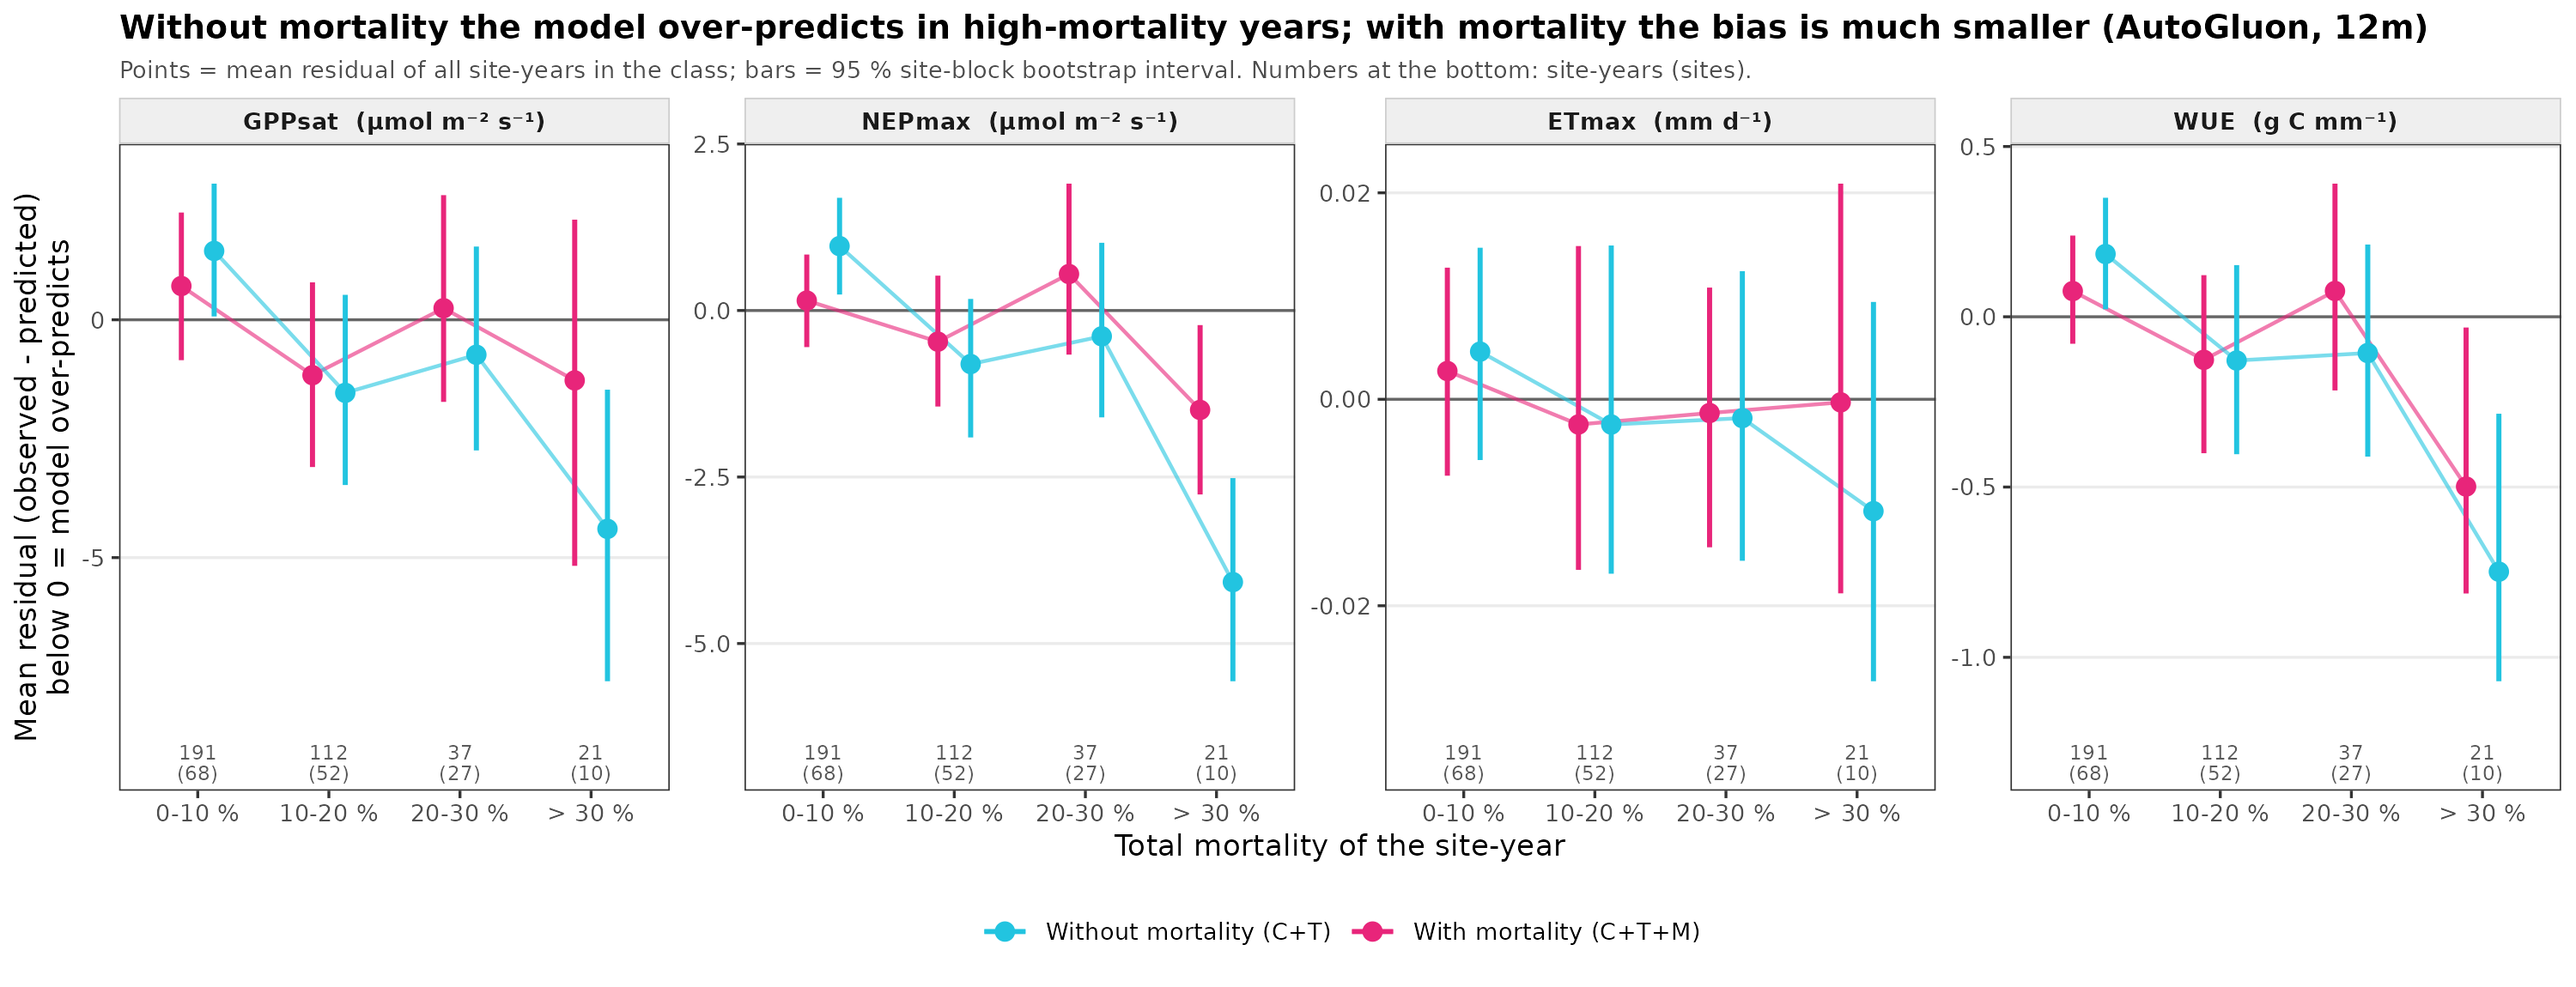
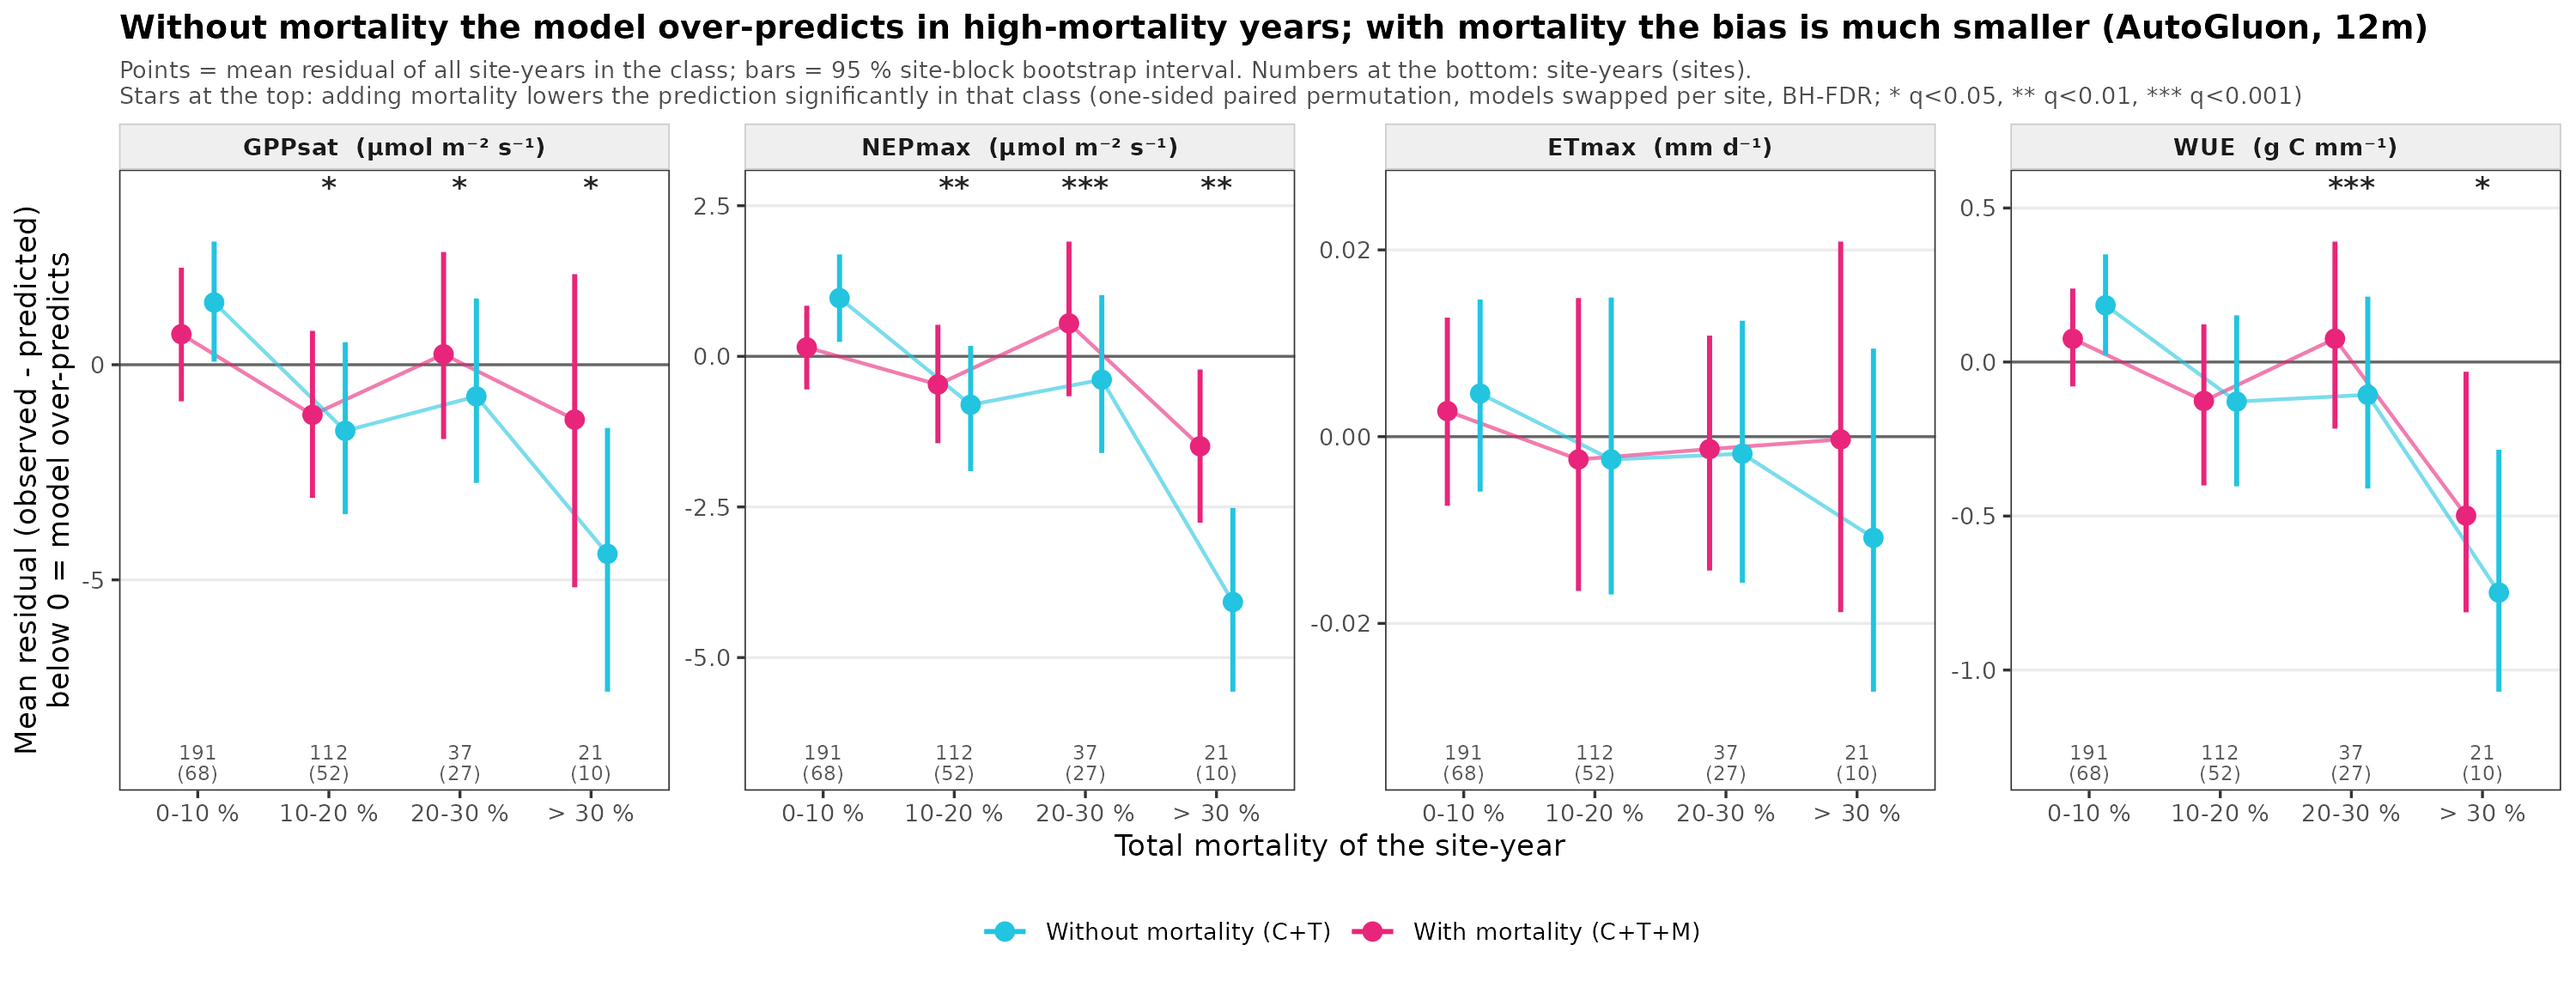
Residual-by-mortality plots: significance stars for the correction (100k permutations)

diff --git a/data/flux/manuscript_coauthor_draft/draft_coauthors.tex b/data/flux/manuscript_coauthor_draft/draft_coauthors.tex
@@ -193,7 +193,8 @@ points coloured by IGBP class.}
 \begin{center}
 \includegraphics[width=\linewidth]{figures/fig5_residual_by_mortality_AG_24m.png}\\[2pt]
 {\small \textbf{Fig.\ 5} --- mean residual per class of the site-year's total mortality, without (cyan) and with mortality
-(pink), AutoGluon, 24\,months; bars = 95\,\% site-block bootstrap interval; numbers = site-years (sites).}
+(pink), AutoGluon, 24\,months; bars = 95\,\% site-block bootstrap interval; numbers = site-years (sites); stars = adding mortality lowers the prediction significantly in that class
+(paired permutation, BH-FDR).}
 \end{center}
 
 \textbf{Mortality metrics}
@@ -258,7 +259,7 @@ points coloured by IGBP class.}
                 sign-flip permutation test on the per-site log error ratios (100\,000 flips; geometric-mean change).
           \item \emph{Dose--response} (Fig.~5): mean residual per class of the site-year's total mortality with a site-block
                 bootstrap (2000 draws); correction = residual(C+T+M) $-$ residual(C+T), one-sided paired permutation with
-                the two models swapped per site (10\,000 draws); mixed models (nlme) residual or correction $\sim$ total
+                the two models swapped per site (100\,000 draws); mixed models (nlme) residual or correction $\sim$ total
                 mortality + (1\,|\,site), slopes checked with a site-block bootstrap, leave-one-site-out and without sites
                 $>$50\,\% total mortality.
           \item Fig.~3: Mann--Whitney U. Fig.~4: Spearman. Benjamini--Hochberg FDR within each table / figure

diff --git a/data/flux/scripts/paper_v41/35_build_report_paper.py b/data/flux/scripts/paper_v41/35_build_report_paper.py
@@ -328,7 +328,7 @@ if os.path.exists(f"{DS['v5']['plots']}/dose_response/dose_response_robustness_A
             + fig("v5", "dose_response/residual_by_mortality_AG_24m.png",
                   "AutoGluon, 24 months: mean residual (observed − predicted) per class of the site-year's total mortality; "
                   "below 0 = the model predicts too high. Cyan = without mortality (C+T), pink = with mortality (C+T+M); bars = 95 % "
-                  "site-block bootstrap interval; numbers = site-years (sites).")
+                  "site-block bootstrap interval; numbers = site-years (sites); stars at the top = adding mortality lowers the prediction significantly in that class (paired permutation, BH-FDR).")
             + "<p><b>Result:</b> without mortality the model predicts the EFPs <b>too high in high-mortality years</b>: in the "
             "&gt; 30 % class (21 site-years, 10 sites) NEP<sub>max</sub> by about 4 µmol m<sup>−2</sup> s<sup>−1</sup>, "
             "GPP<sub>sat</sub> by 3.4–4.4 and WUE by 0.75–0.9 g C mm<sup>−1</sup> (all learners, intervals below 0). Adding "
